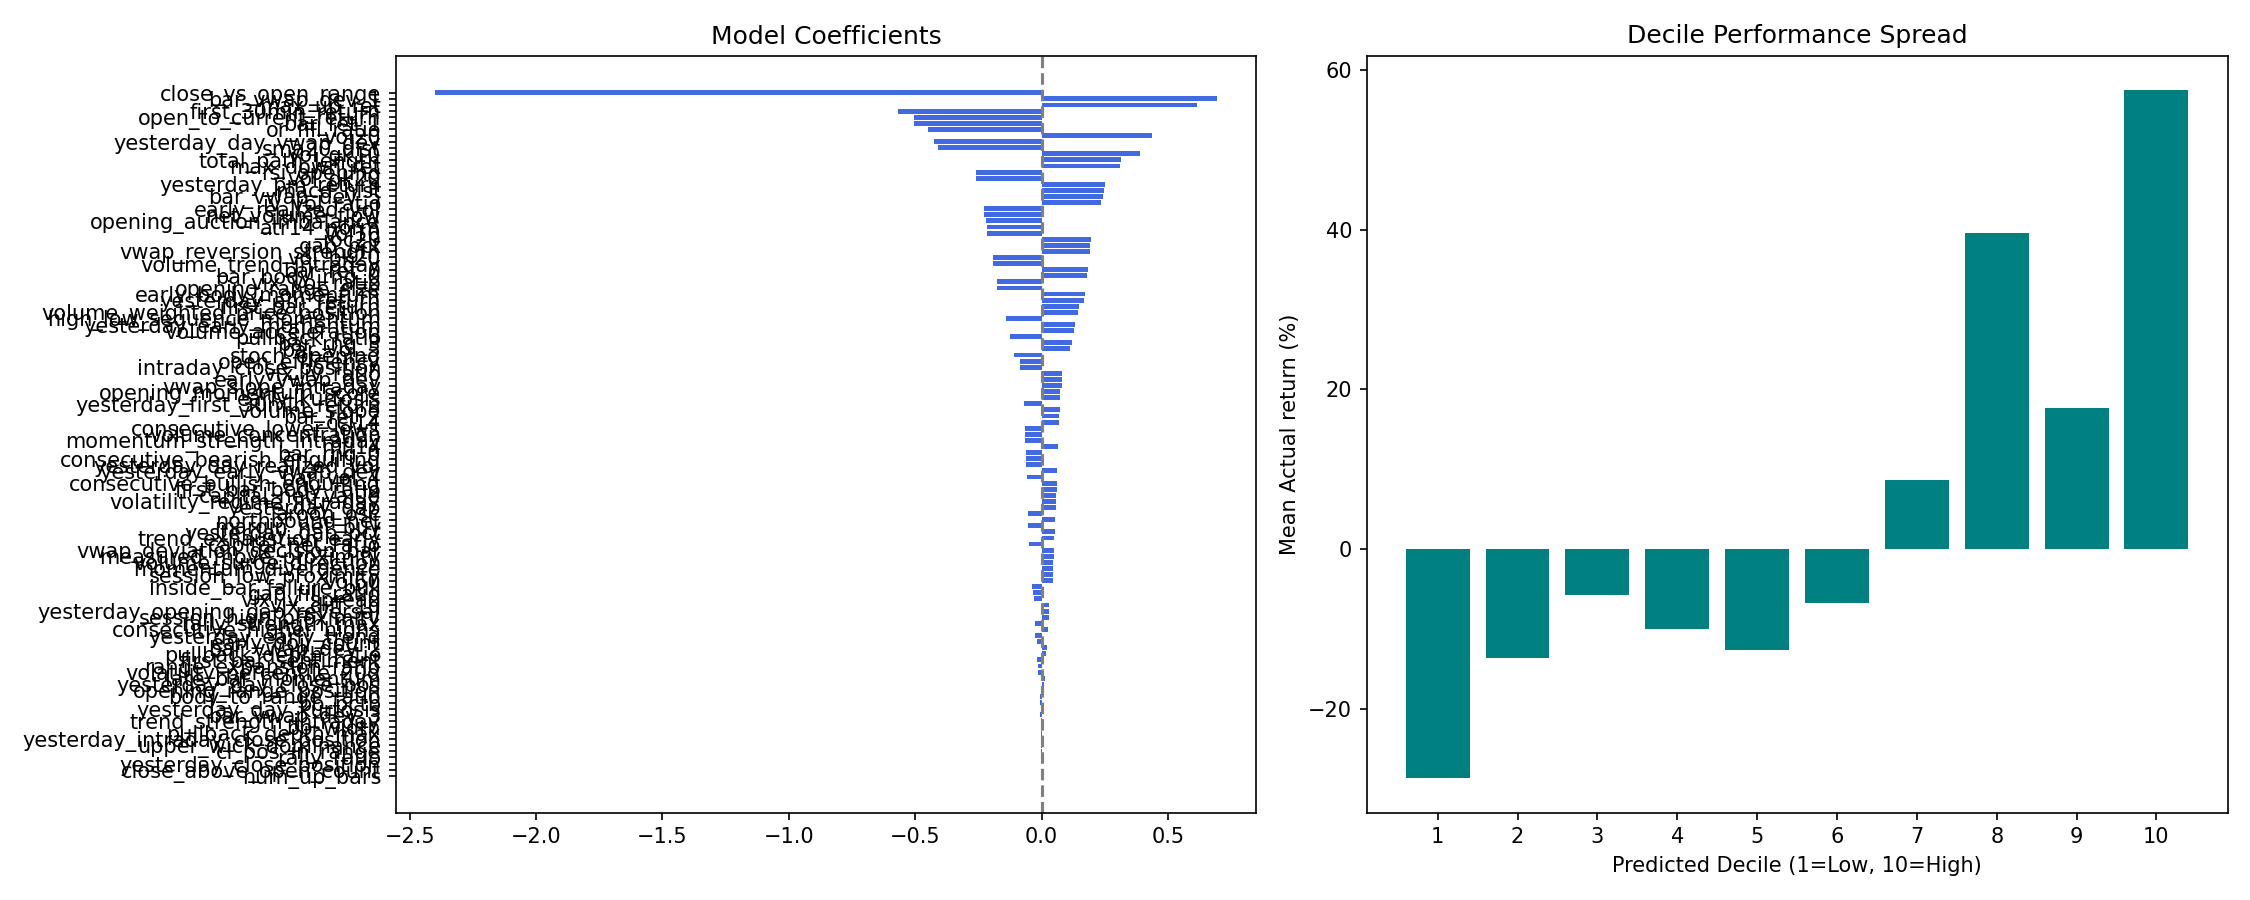
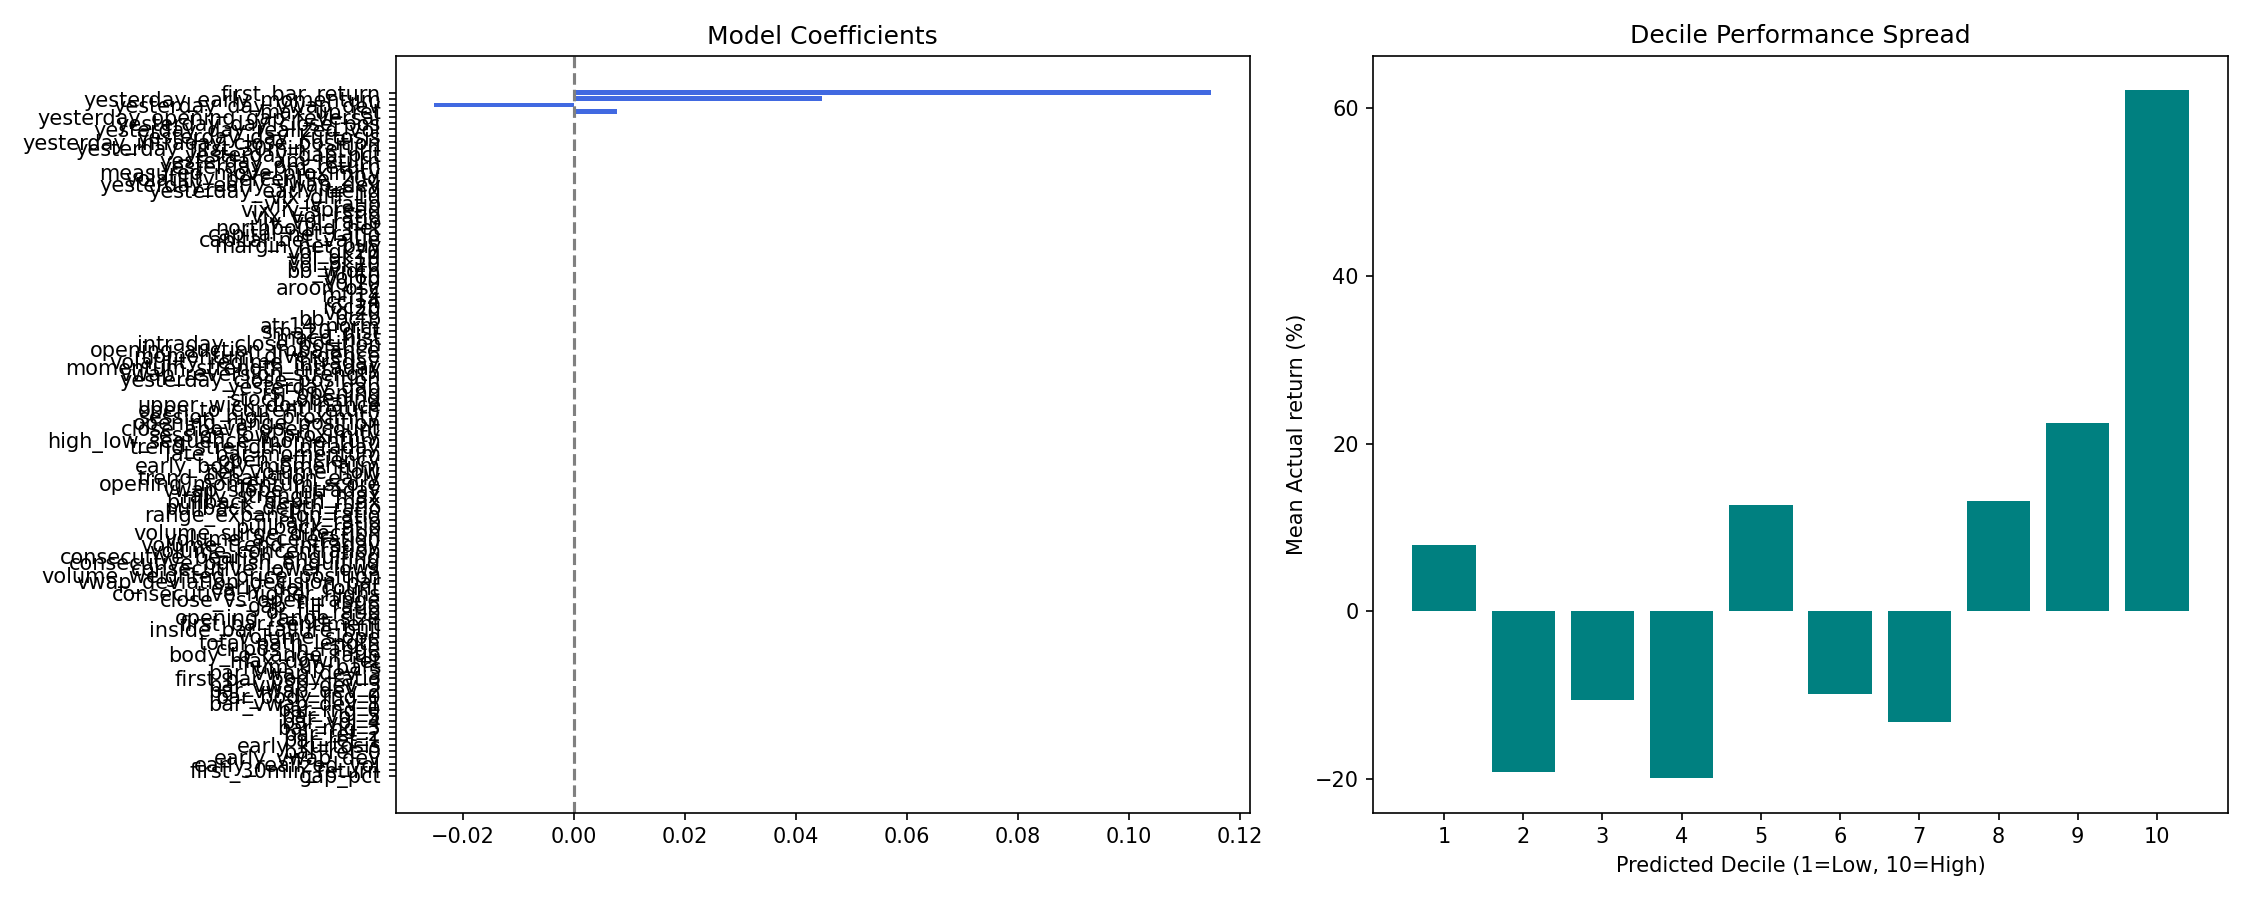
Process

diff --git a/day-model/train_model.py b/day-model/train_model.py
@@ -639,9 +639,10 @@ def train_etf(etf_name: str, n_trials: int = 50, side: str = "single",
         model_temp.fit(X_weighted_temp, y_weighted_temp)
 
         coef_norm = float(np.linalg.norm(model_temp.coef_))
+        active_k = int(np.sum(np.abs(model_temp.coef_) > 1e-5))
 
         # Calculate raw yearly metrics
-        raw_metrics, _, _ = calculate_yearly_metrics(y_working, oof_preds, dates_working, K_sel, coef_norm)
+        raw_metrics, _, _ = calculate_yearly_metrics(y_working, oof_preds, dates_working, active_k, coef_norm)
         return raw_metrics, model_temp, scaler_init
 
     # ── Pilot calibration cache ───────────────────────────────────────
@@ -898,21 +899,30 @@ def train_etf(etf_name: str, n_trials: int = 50, side: str = "single",
 
 
 def _plot_diagnostics(tag, dates, y_true, y_pred, coefs, feature_names):
-    fig, axes = plt.subplots(1, 2, figsize=(15, 6))
+    fig = plt.figure(figsize=(15, 12))
+    gs = fig.add_gridspec(2, 2)
     
-    # Plot 1: Feature coefficients
-    ax1 = axes[0]
+    # Plot 1: Feature coefficients (takes left column, spans both rows)
+    ax1 = fig.add_subplot(gs[:, 0])
+    
     # Sort coefficients by absolute value
-    sort_idx = np.argsort(np.abs(coefs))
+    abs_coefs = np.abs(coefs)
+    sort_idx = np.argsort(abs_coefs)
+    
+    # Cap to max 20 coefficients to avoid crowding
+    max_coefs = 20
+    if len(sort_idx) > max_coefs:
+        sort_idx = sort_idx[-max_coefs:]
+        
     sorted_coefs = coefs[sort_idx]
     sorted_feats = [feature_names[i] for i in sort_idx]
     
     ax1.barh(sorted_feats, sorted_coefs, color="royalblue")
-    ax1.set_title("Model Coefficients")
+    ax1.set_title(f"Model Coefficients (Top {len(sorted_feats)})")
     ax1.axvline(0, color="gray", linestyle="--")
     
-    # Plot 2: Decile actual vs prediction
-    ax2 = axes[1]
+    # Plot 2: Decile actual vs prediction (top right)
+    ax2 = fig.add_subplot(gs[0, 1])
     df = pd.DataFrame({"y_true": y_true, "y_pred": y_pred})
     df["decile"] = pd.qcut(df["y_pred"], 10, labels=False, duplicates="drop")
     decile_means = df.groupby("decile")["y_true"].mean() * 100 # % return
@@ -922,6 +932,15 @@ def _plot_diagnostics(tag, dates, y_true, y_pred, coefs, feature_names):
     ax2.set_ylabel("Mean Actual return (%)")
     ax2.set_title("Decile Performance Spread")
     ax2.set_xticks(range(1, 11))
+    
+    # Plot 3: Square graph under Decile Performance Spread (left empty for now)
+    ax3 = fig.add_subplot(gs[1, 1])
+    ax3.set_title("Future Diagnostic Plot")
+    ax3.text(0.5, 0.5, "(Empty for now)", ha="center", va="center", color="gray", fontsize=12)
+    ax3.set_xlim(0, 1)
+    ax3.set_ylim(0, 1)
+    ax3.set_xticks([])
+    ax3.set_yticks([])
     
     plt.tight_layout()
     plt.savefig(PLOTS_DIR / f"diagnostics_{tag}.png", dpi=150)
